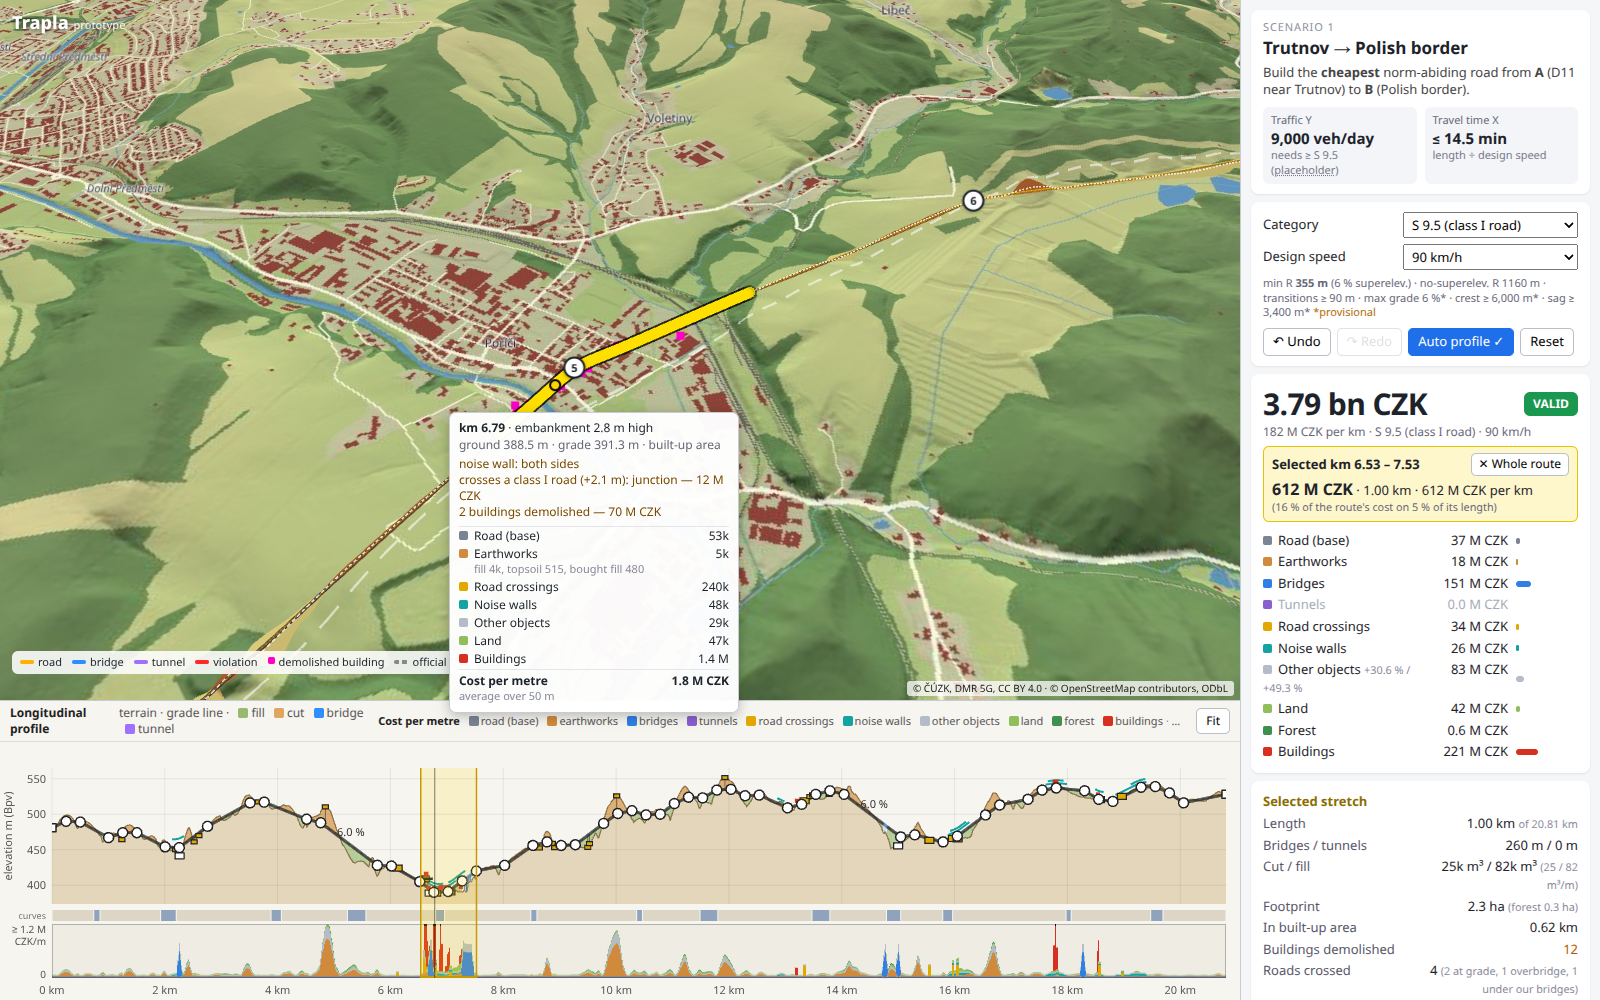
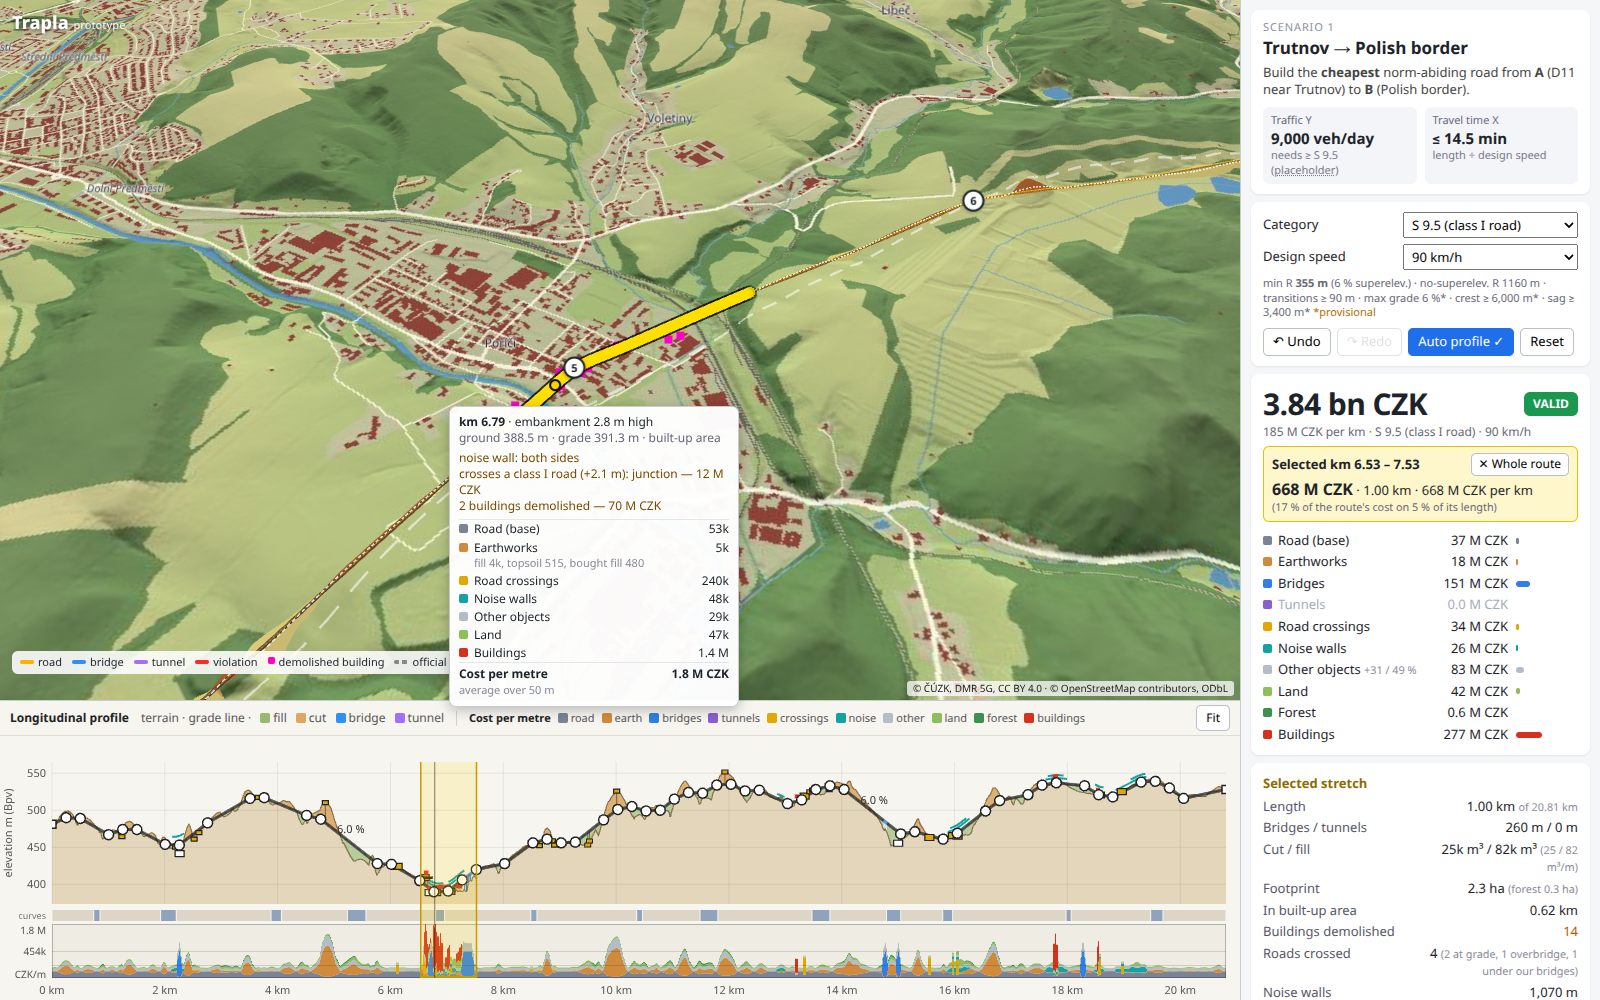
Working strip around the footprint for demolitions, garage price, sqrt-scaled cost strip, optimiser with insert/delete moves on whole-metre PIs; comparison designs (town centre, optimiser best, direct 80 km/h)

diff --git a/scripts/optimize.ts b/scripts/optimize.ts
@@ -1,32 +1,50 @@
 // Crude random local search over PI positions (calibration aid: what does a good design cost?).
-// npx tsx scripts/optimize.ts <speed> <iterations> [start.json]
+//   npx tsx scripts/optimize.ts <speed> <iterations> [start.json] [out.json] [seed]
+// Moves: shift one PI (step shrinking over the run), occasionally insert a PI in the middle of a leg
+// or delete one. Invalid designs are penalised per violation.
 import { readFileSync, writeFileSync } from 'node:fs';
-import { evaluate, type Design } from '../src/core/evaluate';
 import { D11_SCENARIO } from '../src/core/data/scenario';
+import { evaluate, type Design, type EvalContext, type Result } from '../src/core/evaluate';
 import { loadPack } from './loadpack';
+import { describe } from './report';
 
-const { meta, terrain, buildings } = loadPack();
+const { meta, terrain, buildings, roads } = loadPack();
 const a = { x: meta.A.xy[0], y: meta.A.xy[1] }, b = { x: meta.B.xy[0], y: meta.B.xy[1] };
-const ctx = { terrain, scenario: D11_SCENARIO, a, b, buildings };
+const ctx: EvalContext = { terrain, scenario: D11_SCENARIO, a, b, buildings, roads };
 const speed = Number(process.argv[2] ?? 90), iters = Number(process.argv[3] ?? 300);
-let d: Design = process.argv[4] ? JSON.parse(readFileSync(process.argv[4], 'utf8')).design
+const out = process.argv[5] ?? `/tmp/opt-${speed}.json`;
+let d: Design = process.argv[4] && process.argv[4] !== '-' ? JSON.parse(readFileSync(process.argv[4], 'utf8')).design
   : { category: 'S9.5', speed, pis: [], profileMode: 'auto', vpis: [] };
 d.speed = speed;
-if (!d.pis.length) for (let k = 1; k < 8; k++) d.pis.push({ x: a.x + (b.x - a.x) * k / 8, y: a.y + (b.y - a.y) * k / 8, r: null });
-const score = (r: ReturnType<typeof evaluate>) => r.cost.total + 2e8 * r.violations.length;
+d.profileMode = 'auto';
+if (!d.pis.length) for (let k = 1; k < 8; k++) d.pis.push({ x: Math.round(a.x + (b.x - a.x) * k / 8), y: Math.round(a.y + (b.y - a.y) * k / 8), r: null });
+const score = (r: Result) => r.cost.total + 2e8 * r.violations.length;
 let cur = evaluate(ctx, d), curS = score(cur);
-let rng = 12345; const rand = () => ((rng = (rng * 1103515245 + 12345) & 0x7fffffff) / 0x7fffffff);
+let rng = Number(process.argv[6] ?? 12345);
+const rand = () => ((rng = (rng * 1103515245 + 12345) & 0x7fffffff) / 0x7fffffff);
 for (let it = 0; it < iters; it++) {
   const nd: Design = JSON.parse(JSON.stringify(d));
-  const k = Math.floor(rand() * nd.pis.length);
   const step = 400 * (1 - it / iters) + 50;
-  nd.pis[k].x += (rand() * 2 - 1) * step; nd.pis[k].y += (rand() * 2 - 1) * step;
+  const move = rand();
+  if (move < 0.06 && nd.pis.length < 20) {
+    const pts = [a, ...nd.pis, b];
+    const k = Math.floor(rand() * (pts.length - 1));
+    nd.pis.splice(k, 0, { x: (pts[k].x + pts[k + 1].x) / 2 + (rand() * 2 - 1) * step, y: (pts[k].y + pts[k + 1].y) / 2 + (rand() * 2 - 1) * step, r: null });
+  } else if (move < 0.1 && nd.pis.length > 3) {
+    nd.pis.splice(Math.floor(rand() * nd.pis.length), 1);
+  } else {
+    const k = Math.floor(rand() * nd.pis.length);
+    nd.pis[k].x += (rand() * 2 - 1) * step; nd.pis[k].y += (rand() * 2 - 1) * step;
+  }
+  // whole metres, so that the saved design is exactly what was evaluated (a building can hinge on 0.1 m)
+  for (const p of nd.pis) { p.x = Math.round(p.x); p.y = Math.round(p.y); }
   const r = evaluate(ctx, nd), s = score(r);
   if (s < curS) { d = nd; cur = r; curS = s; }
-  if (it % 50 === 0) console.log(it, (cur.cost.total / 1e6).toFixed(0), cur.violations.length, (cur.length / 1000).toFixed(2), cur.travelMin.toFixed(2));
+  if (it % 100 === 0) console.log(it, (cur.cost.total / 1e6).toFixed(0), cur.violations.length, (cur.length / 1000).toFixed(2), cur.travelMin.toFixed(2), d.pis.length);
 }
-const q = cur.quantities;
-console.log(`final ${(cur.cost.total / 1e6).toFixed(0)} M CZK, ${(cur.length / 1000).toFixed(2)} km, ${cur.travelMin.toFixed(2)} min, viol ${cur.violations.length}, bridges ${q.bridges}/${q.bridgeLength.toFixed(0)} m tunnels ${q.tunnels}/${q.tunnelLength.toFixed(0)} m, buildings ${q.buildingsHit}`);
-console.log(cur.violations.map((v) => v.msg));
-d.pis = d.pis.map((p) => ({ x: Math.round(p.x), y: Math.round(p.y), r: p.r }));
-writeFileSync(`/tmp/opt-${speed}.json`, JSON.stringify({ design: d }));
+console.log(`final: ${(cur.length / 1000).toFixed(2)} km, ${cur.travelMin.toFixed(2)} min, ${d.pis.length} PIs`);
+for (const l of describe(cur)) console.log(l);
+if (cur.violations.length) console.log(cur.violations.map((v) => v.msg));
+d.vpis = [];
+writeFileSync(out, JSON.stringify({ design: d }));
+console.log('written', out);

diff --git a/scripts/bench.ts b/scripts/bench.ts
@@ -4,28 +4,13 @@
 import { readFileSync } from 'node:fs';
 import { PART_KEYS } from '../src/core/cost';
 import { D11_SCENARIO } from '../src/core/data/scenario';
-import { evaluate, type Design, type EvalContext, type Result } from '../src/core/evaluate';
+import { evaluate, type Design, type EvalContext } from '../src/core/evaluate';
 import { loadPack } from './loadpack';
+import { describe } from './report';
 
 const { meta, terrain, buildings, roads } = loadPack();
 const a = { x: meta.A.xy[0], y: meta.A.xy[1] }, b = { x: meta.B.xy[0], y: meta.B.xy[1] };
 const ctx: EvalContext = { terrain, scenario: D11_SCENARIO, a, b, buildings, roads };
-const M = (v: number) => (v / 1e6).toFixed(0);
-
-export function describe(r: Result): string[] {
-  const q = r.quantities, c = r.cost, km = r.length / 1000;
-  const xs: Record<string, number> = {};
-  for (const x of r.crossings) xs[`${x.type}:${x.cls}`] = (xs[`${x.type}:${x.cls}`] ?? 0) + 1;
-  return [
-    `total ${M(c.total)} M CZK = ${M(c.total / km)} M/km ${r.valid ? 'VALID' : `NOT VALID (${r.violations.length})`}`,
-    `  road base ${M(c.roadBase)} | earthworks ${M(c.earthworks)} | bridges ${M(c.bridges)} | tunnels ${M(c.tunnels)} | crossings ${M(c.crossings)} | noise walls ${M(c.noiseWalls)} | other objects ${M(c.surcharge)} | land ${M(c.landDetail.land)} | forest ${M(c.landDetail.forest)} | buildings ${M(c.landDetail.buildings)}`,
-    `  earth detail: ${Object.entries(c.earthDetail).map(([k, v]) => `${k} ${M(v)}`).join(', ')}`,
-    `  cut ${(q.cut / 1e3).toFixed(0)}k m³ (class I/II/III ${q.cutByClass.map((v) => `${((100 * v) / Math.max(1, q.cut)).toFixed(0)} %`).join(' / ')}), fill ${(q.fill / 1e3).toFixed(0)}k m³, ${(q.cut / r.length).toFixed(0)} / ${(q.fill / r.length).toFixed(0)} m³ per m; surplus ${(q.surplus / 1e3).toFixed(0)}k, bought ${(q.deficit / 1e3).toFixed(0)}k, avg haul ${q.avgHaul.toFixed(0)} m; material value ${q.materialValue.toFixed(0)} CZK/m³`,
-    `  bridges ${q.bridges} / ${q.bridgeLength.toFixed(0)} m, tunnels ${q.tunnels} / ${q.tunnelLength.toFixed(0)} m; built-up ${(q.urbanLength / 1000).toFixed(2)} km; buildings ${q.buildingsHit}; noise walls ${q.wallLength.toFixed(0)} m (D = ${q.noiseDistance.toFixed(0)} m); forest ${(q.forestArea / 1e4).toFixed(1)} ha`,
-    `  crossings ${r.crossings.length} (${q.crossingsPaid} paid): ${Object.entries(xs).map(([k, v]) => `${k} ${v}`).join(', ')}`,
-  ];
-}
-
 function report(name: string, d: Design) {
   let r = evaluate(ctx, d);
   const t0 = performance.now();

diff --git a/src/core/evaluate.ts b/src/core/evaluate.ts
@@ -13,7 +13,7 @@ import { CATEGORIES, type CategoryId } from './data/categories';
 import { speedNorms } from './data/norms';
 import { LAND, MATERIAL_VALUE, NORM_EARTHWORK_ALLOWANCE, PRICES, STRUCTURE_RULES } from './data/prices';
 import { CATEGORY_RANK, minCategoryForTraffic, type ScenarioParams } from './data/scenario';
-import { CROSSING_RULES, NOISE, ROAD_CLASSES } from './data/urban';
+import { BUILDING_RULES, CROSSING_RULES, NOISE, ROAD_CLASSES } from './data/urban';
 import { massHaul, volumes } from './earthworks';
 import { buildAlignment, station, type PI, type Vec2 } from './horizontal';
 import { dwellingExposure, noiseDistance, wallFlags, wallStretches, type WallStretch } from './noise';
@@ -360,7 +360,8 @@ export function evaluate(ctx: EvalContext, d: Design): Result {
   }
   lap('earthworks');
 
-  // --- buildings in the footprint (slope to slope at grade, the deck strip under bridges) ---
+  // --- buildings in the footprint (slope to slope at grade, the deck strip under bridges), plus a
+  // working strip on either side ---
   const buildingCost = new Float64Array(n);
   const demolished: Result['demolished'] = [];
   const bld = ctx.buildings;
@@ -372,9 +373,9 @@ export function evaluate(ctx: EvalContext, d: Design): Result {
       if (kind[i] === KIND.tunnel) continue;
       const left = kind[i] === KIND.earth ? sec.dayL[i] : w, right = kind[i] === KIND.earth ? sec.dayR[i] : w;
       const x = st.x[i], y = st.y[i], tx = st.tx[i], ty = st.ty[i];
-      const off = (left - right) / 2, half = (left + right) / 2;
+      const off = (left - right) / 2, half = (left + right) / 2 + BUILDING_RULES.clearance;
       const cx = x - ty * off, cy = y + tx * off;
-      bld.near(x, y, Math.max(left, right) + ds, (j) => {
+      bld.near(x, y, Math.max(left, right) + BUILDING_RULES.clearance + ds, (j) => {
         if (!bld.hits(j, cx, cy, tx, ty, ds / 2 + 0.5, half)) return;
         const along = Math.abs((items[j][0] - x) * tx + (items[j][1] - y) * ty);
         const p = best.get(j);

diff --git a/scripts/report.ts b/scripts/report.ts
@@ -1,0 +1,18 @@
+// One evaluation result as a few lines of text (bench + optimiser output).
+import type { Result } from '../src/core/evaluate';
+
+const M = (v: number) => (v / 1e6).toFixed(0);
+
+export function describe(r: Result): string[] {
+  const q = r.quantities, c = r.cost, km = r.length / 1000;
+  const xs: Record<string, number> = {};
+  for (const x of r.crossings) xs[`${x.type}:${x.cls}`] = (xs[`${x.type}:${x.cls}`] ?? 0) + 1;
+  return [
+    `total ${M(c.total)} M CZK = ${M(c.total / km)} M/km ${r.valid ? 'VALID' : `NOT VALID (${r.violations.length})`}`,
+    `  road base ${M(c.roadBase)} | earthworks ${M(c.earthworks)} | bridges ${M(c.bridges)} | tunnels ${M(c.tunnels)} | crossings ${M(c.crossings)} | noise walls ${M(c.noiseWalls)} | other objects ${M(c.surcharge)} | land ${M(c.landDetail.land)} | forest ${M(c.landDetail.forest)} | buildings ${M(c.landDetail.buildings)}`,
+    `  earth detail: ${Object.entries(c.earthDetail).map(([k, v]) => `${k} ${M(v)}`).join(', ')}`,
+    `  cut ${(q.cut / 1e3).toFixed(0)}k m³ (class I/II/III ${q.cutByClass.map((v) => `${((100 * v) / Math.max(1, q.cut)).toFixed(0)} %`).join(' / ')}), fill ${(q.fill / 1e3).toFixed(0)}k m³, ${(q.cut / r.length).toFixed(0)} / ${(q.fill / r.length).toFixed(0)} m³ per m; surplus ${(q.surplus / 1e3).toFixed(0)}k, bought ${(q.deficit / 1e3).toFixed(0)}k, avg haul ${q.avgHaul.toFixed(0)} m; material value ${q.materialValue.toFixed(0)} CZK/m³`,
+    `  bridges ${q.bridges} / ${q.bridgeLength.toFixed(0)} m, tunnels ${q.tunnels} / ${q.tunnelLength.toFixed(0)} m; built-up ${(q.urbanLength / 1000).toFixed(2)} km; buildings ${q.buildingsHit}; noise walls ${q.wallLength.toFixed(0)} m (D = ${q.noiseDistance.toFixed(0)} m); forest ${(q.forestArea / 1e4).toFixed(1)} ha`,
+    `  crossings ${r.crossings.length} (${q.crossingsPaid} paid): ${Object.entries(xs).map(([k, v]) => `${k} ${v}`).join(', ')}`,
+  ];
+}

diff --git a/src/core/data/urban.ts b/src/core/data/urban.ts
@@ -29,7 +29,7 @@ export const BUILDING_KINDS: BuildingKindRow[] = [
   /* apartments */ { label: 'apartment block', pricePerM2: 45_000, defaultLevels: 4, maxLevels: 12, dwelling: true },
   /* civic      */ { label: 'civic building', pricePerM2: 45_000, defaultLevels: 2, maxLevels: 6, dwelling: false },
   /* industrial */ { label: 'industrial / commercial', pricePerM2: 20_000, defaultLevels: 1, maxLevels: 3, dwelling: false },
-  /* minor      */ { label: 'garage / shed', pricePerM2: 10_000, defaultLevels: 1, maxLevels: 2, dwelling: false },
+  /* minor      */ { label: 'garage / shed', pricePerM2: 15_000, defaultLevels: 1, maxLevels: 2, dwelling: false },
 ];
 
 export const BUILDING_RULES = {
@@ -37,6 +37,9 @@ export const BUILDING_RULES = {
   purchaseMultiplier: 1.5,
   /** PROVISIONAL demolition incl. disposal, CZK per m² of floor area (≈ 1,000 CZK per m³ built volume) */
   demolitionPerM2Floor: 3_000,
+  /** PROVISIONAL working strip: a building closer than this to the footprint (slope edge at grade,
+   * deck edge under a bridge) has to go as well, m */
+  clearance: 3,
 };
 
 // ---------------------------------------------------------------------------------------------
